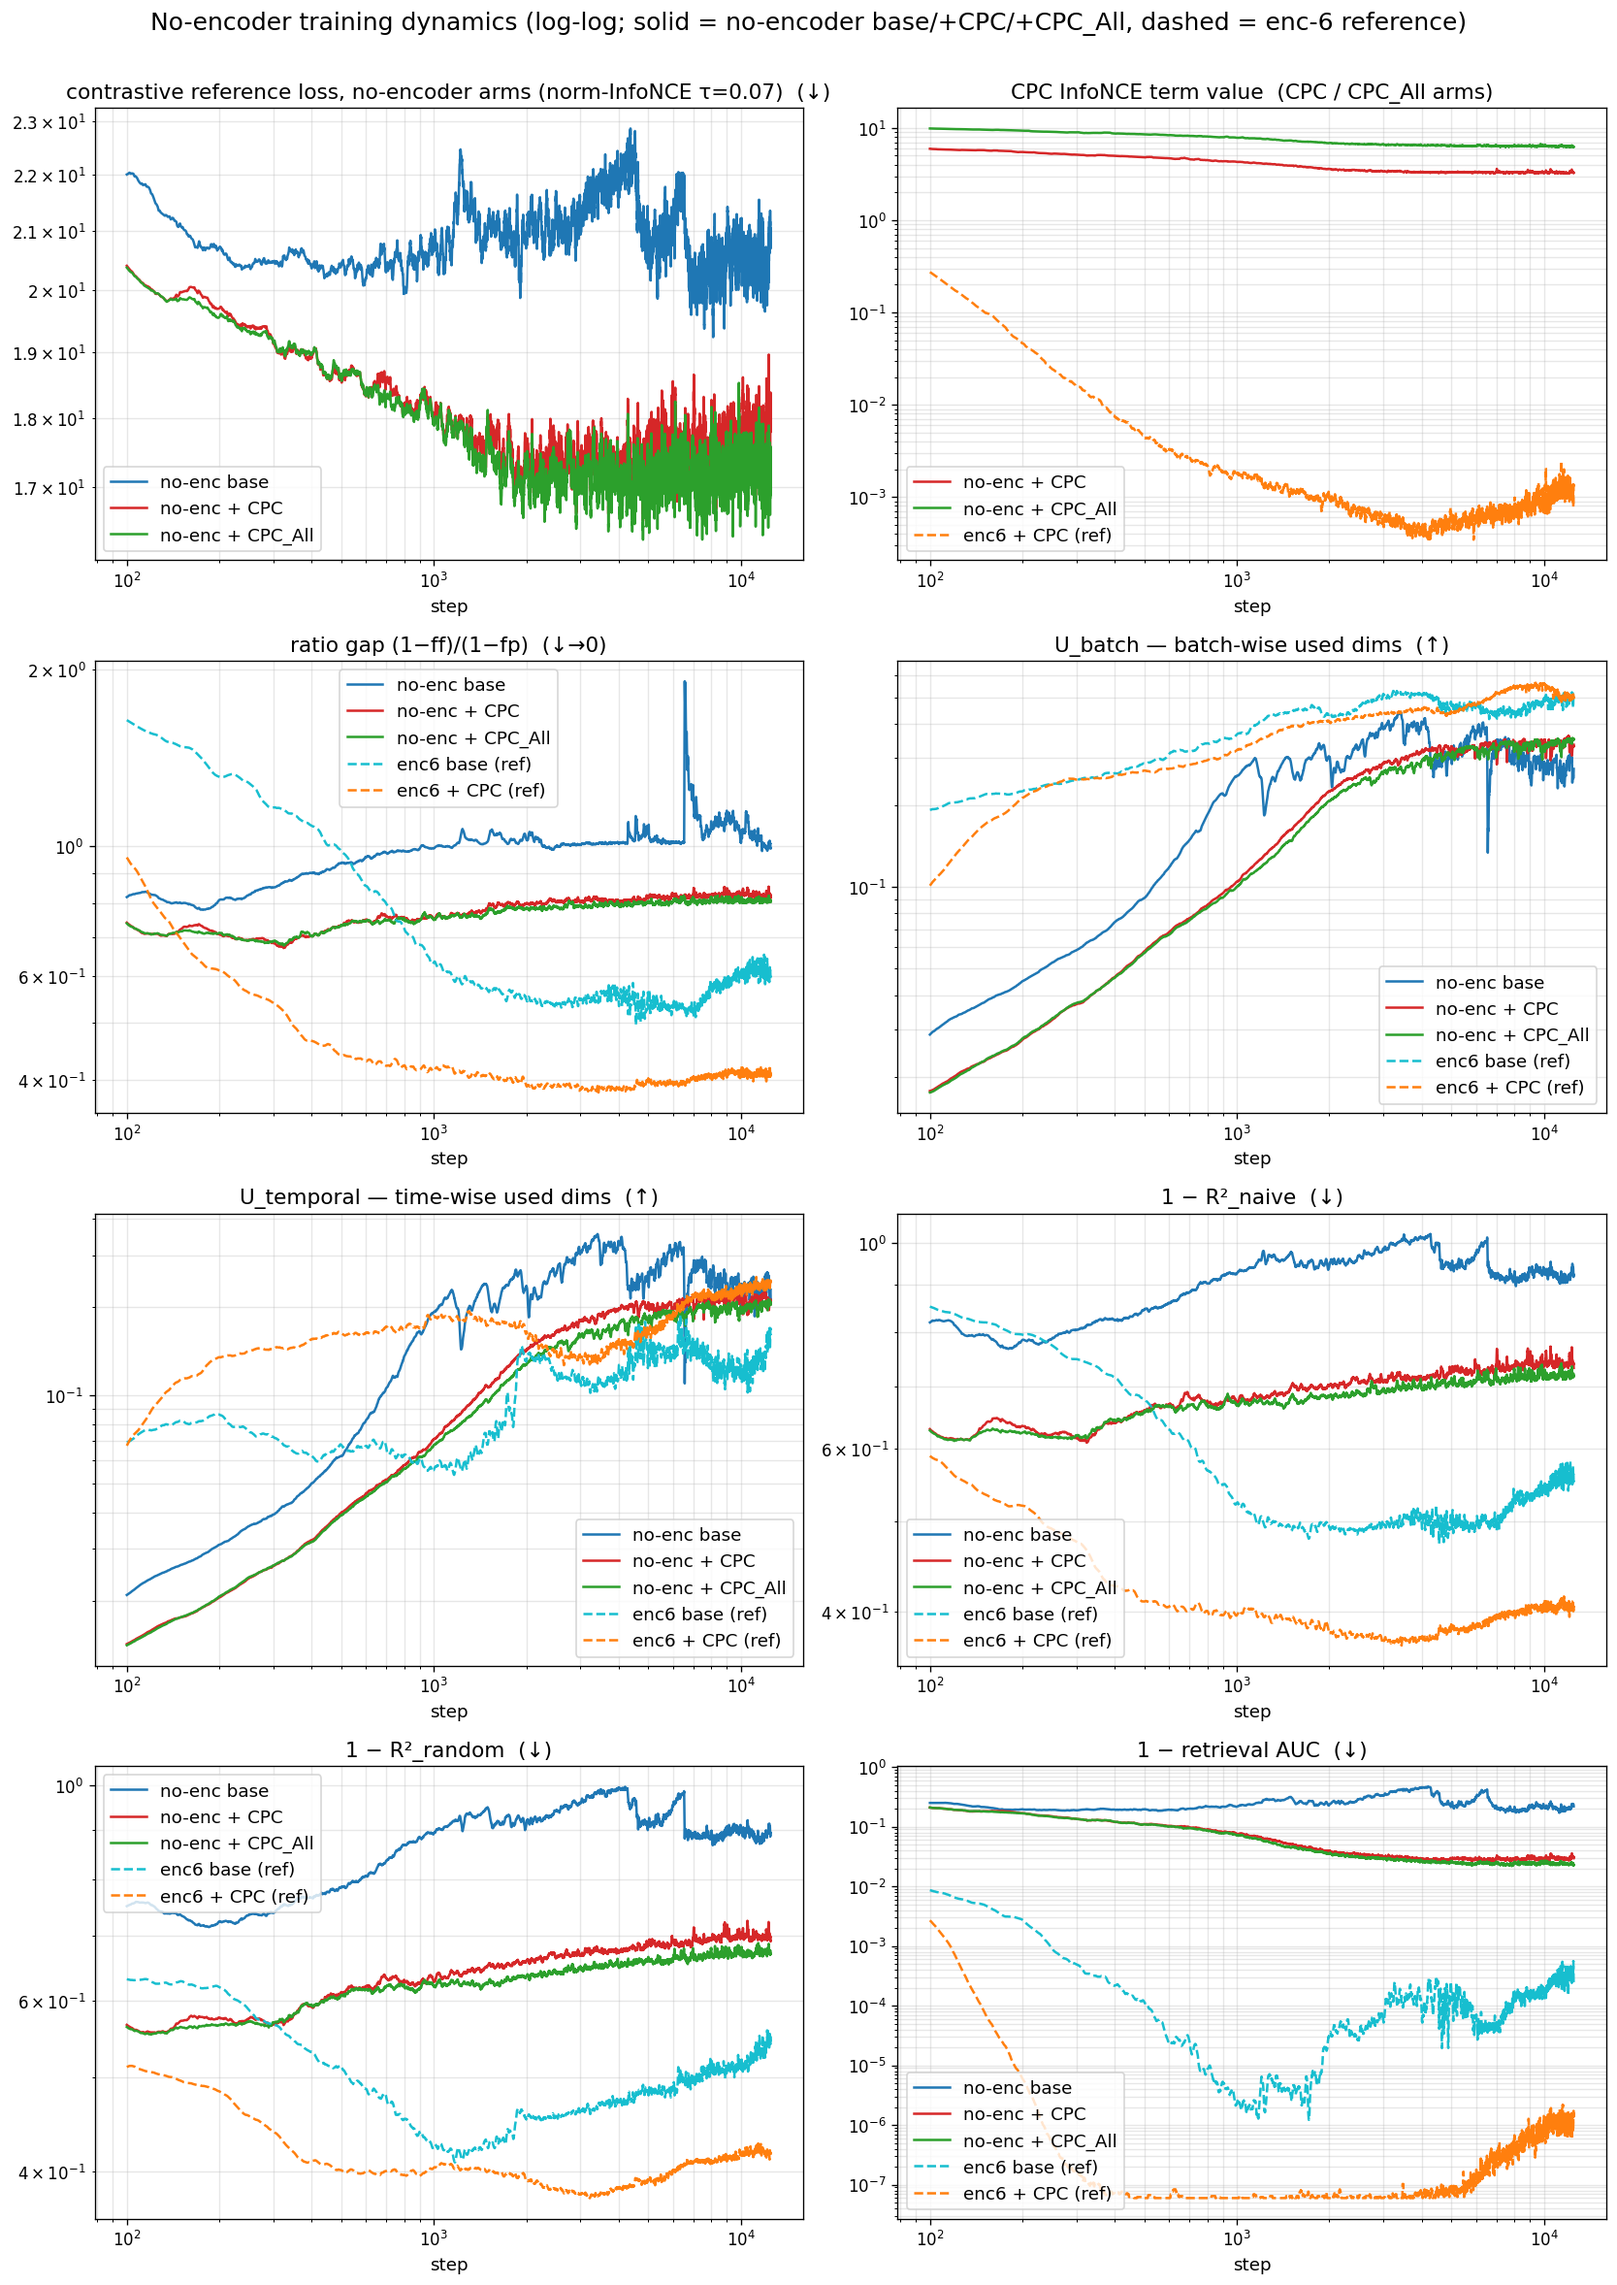
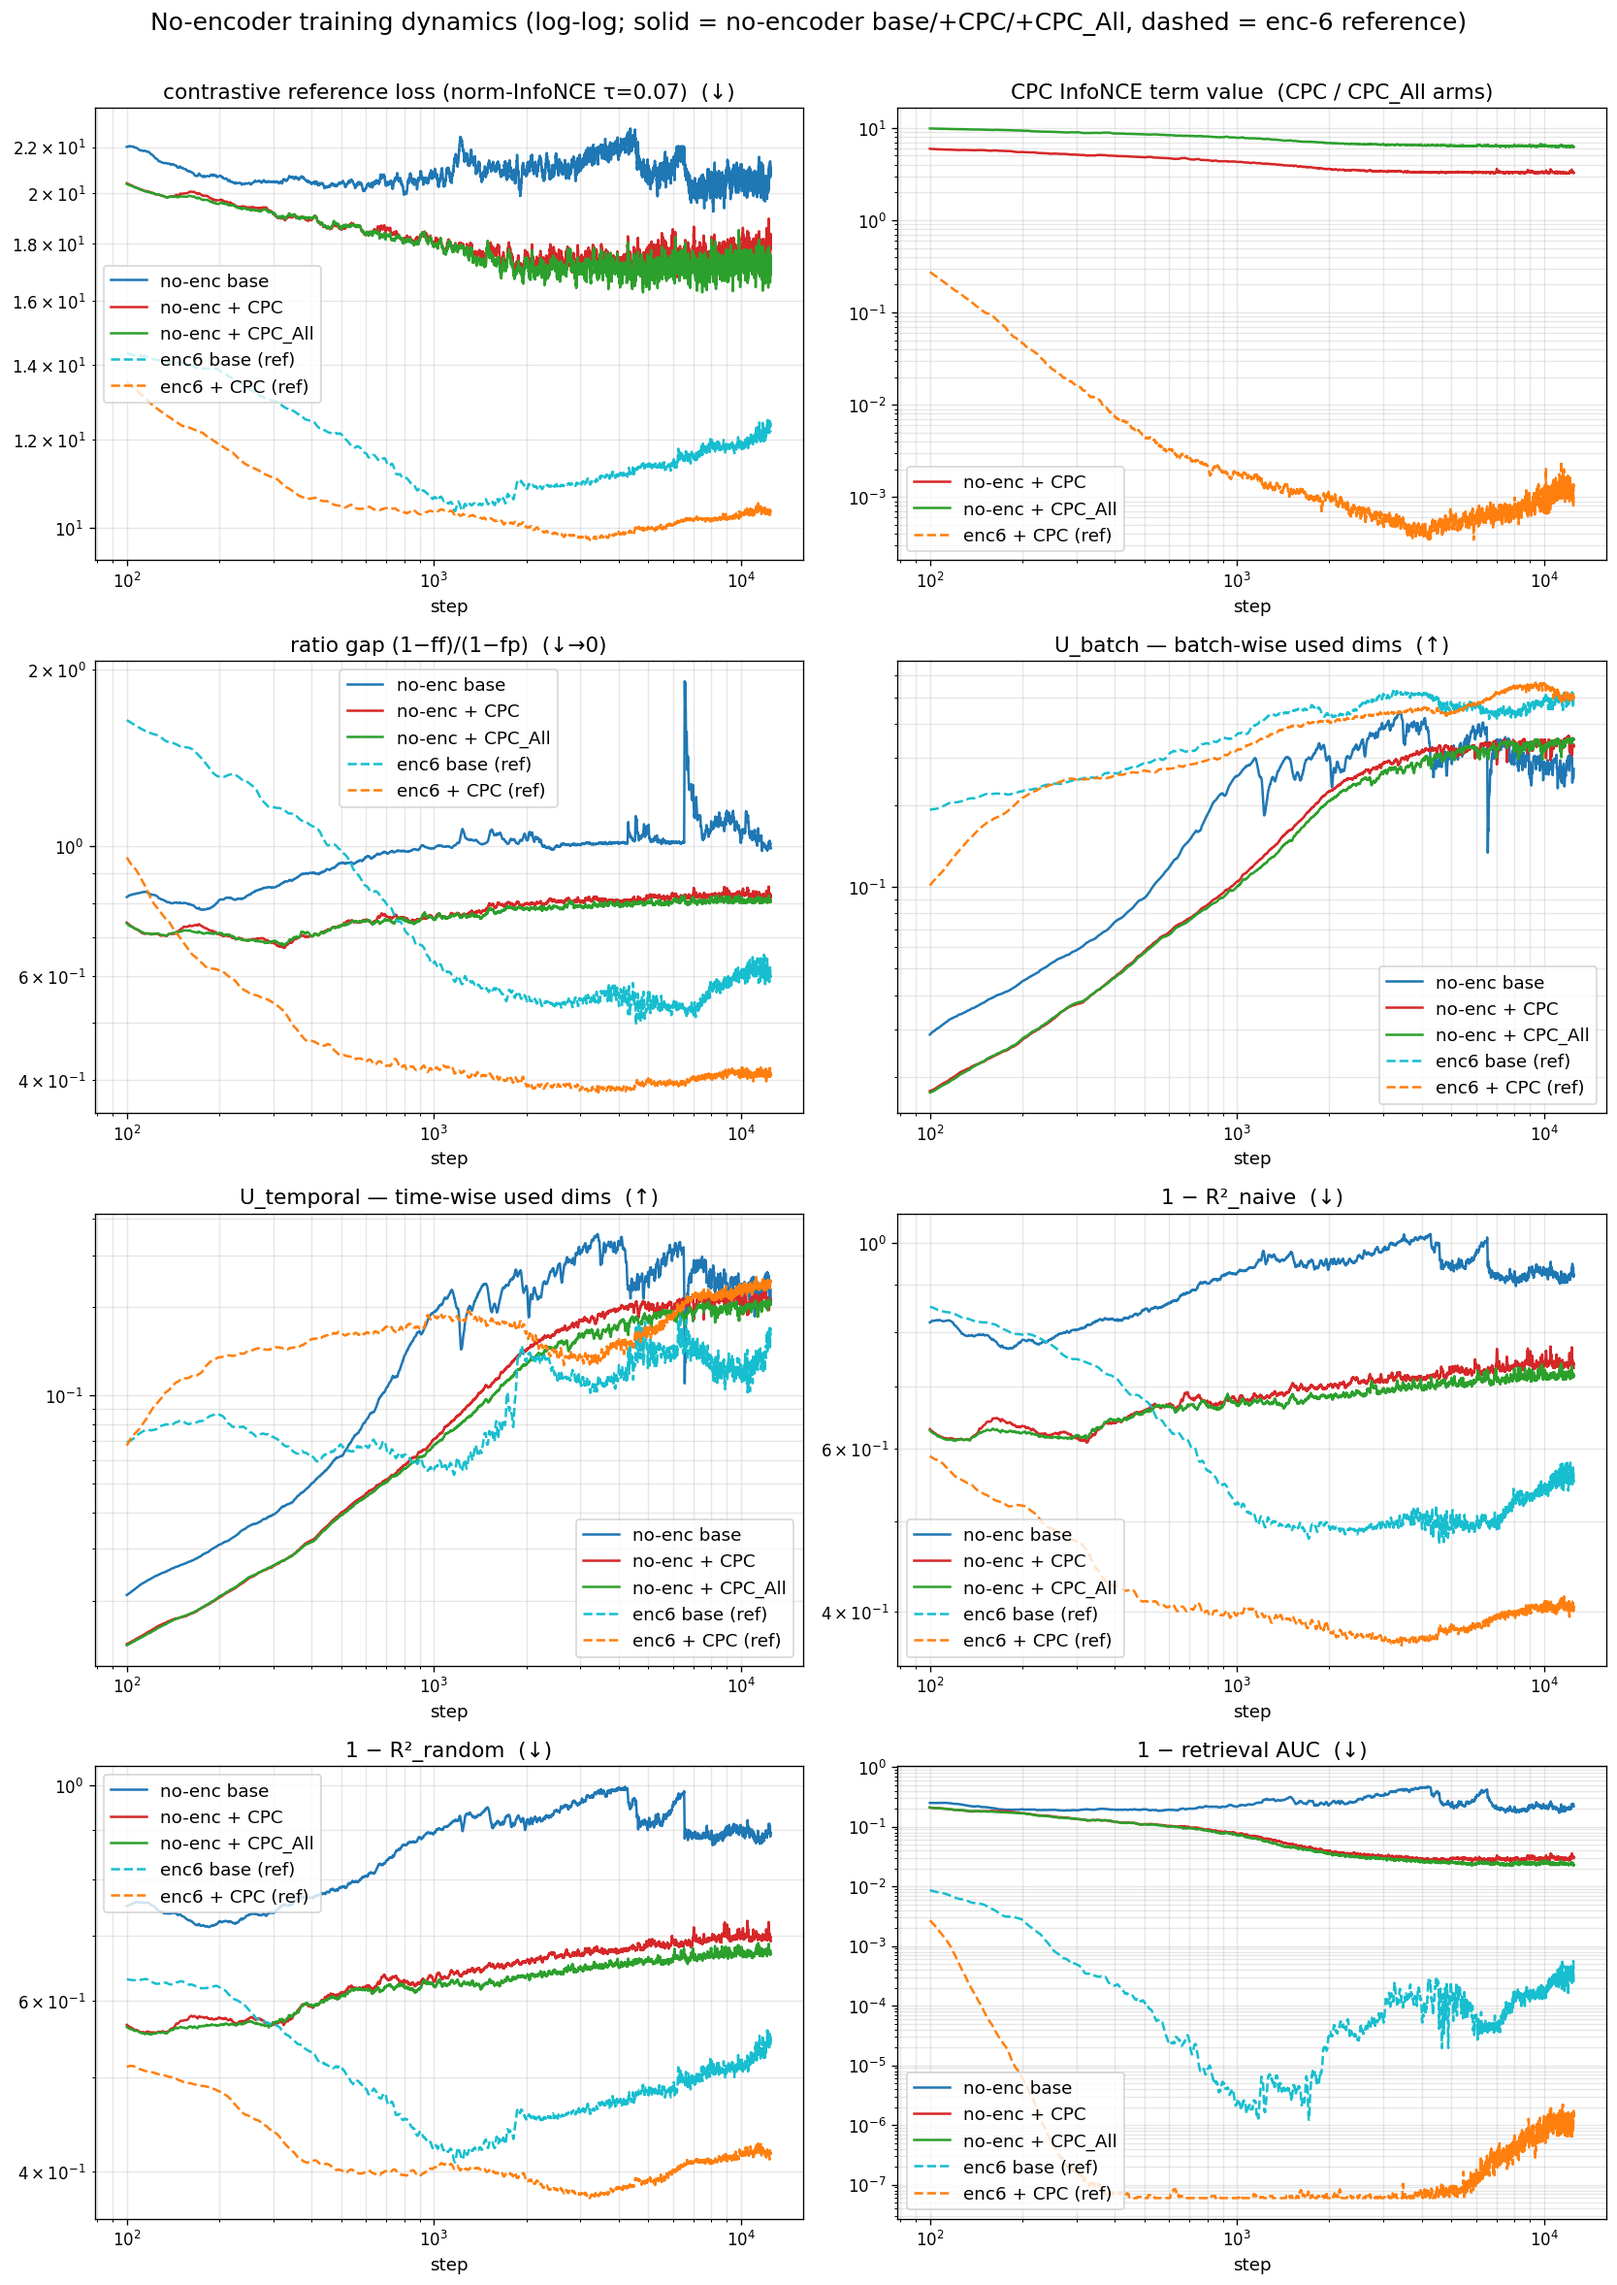
report(#348): keep enc-6 reference on the reference-loss panel (shown raw)
Revert the panel drop per maintainer feedback ('don't drop'): the enc-6 reference
is restored on the contrastive-reference-loss panel as a raw reference trajectory.
loss_tau_ref stays exactly as logged (identity transform, τ=0.07, no floor
subtracted, no rescale) — the ref-tau curve is not adjusted.

Changed region(s): [[0.0312, 0.031, 0.4991, 0.248], [0.0, 0.062, 0.0624, 0.093], [0.0, 0.155, 0.0312, 0.186]]

diff --git a/experiments/2026-06-15_no_encoder_redo/scripts/plot_training_dynamics_noenc.py b/experiments/2026-06-15_no_encoder_redo/scripts/plot_training_dynamics_noenc.py
@@ -29,7 +29,7 @@ SMOOTH = 25
 START_STEP = 100
 
 PANELS = [
-    ("loss_tau_ref", "contrastive reference loss, no-encoder arms (norm-InfoNCE τ=0.07)  (↓)", lambda v: v),
+    ("loss_tau_ref", "contrastive reference loss (norm-InfoNCE τ=0.07)  (↓)", lambda v: v),
     ("cpc_aux",      "CPC InfoNCE term value  (CPC / CPC_All arms)", lambda v: v),
     ("gap_ratio",    "ratio gap (1−ff)/(1−fp)  (↓→0)", lambda v: v),
     ("u_batch",      "U_batch — batch-wise used dims  (↑)", lambda v: v),
@@ -70,11 +70,6 @@ def main():
         ax.set_visible(False)
     for ax, (col, title, tf) in zip(axes.flat, PANELS):
         for lab, (path, c, ls) in RUNS.items():
-            # The enc-6 reference's reference-loss is logged with a different
-            # negative count → a different InfoNCE floor, so its raw curve is
-            # not on the same scale as the no-encoder arms; omit it here.
-            if col == "loss_tau_ref" and "(ref)" in lab:
-                continue
             d = load(path)
             if not d or col not in d or "step" not in d:
                 continue

diff --git a/experiments/2026-06-15_no_encoder_redo/no_encoder_redo.md b/experiments/2026-06-15_no_encoder_redo/no_encoder_redo.md
@@ -32,7 +32,7 @@ The positive sits in the denominator (normalised InfoNCE ≥ 0), summed equal-we
 
 ## Metrics
 
-Training-curve panels: **ff** and **fp** are the forecast-to-future and forecast-to-present cosines, so the ratio gap (1−ff)/(1−fp) falls toward 0 as the positive separates; **R²_naive / R²_random** measure how much of the next embedding the forecast explains, against a copy-the-present / random-embedding baseline; **U_batch / U_temporal** are the fractions of embedding dimensions that vary across the batch / across time; **retrieval AUC** ranks the positive against the negatives; the **reference loss** is a fixed τ=0.07 normalised-InfoNCE diagnostic, distinct from the τ 0.10 training objective. Its panel shows the no-encoder arms only: the InfoNCE floor (the perfect-alignment minimum, `log(1 + N·e^(−1/τ))`) depends on the negative count `N`, and the enc-6 reference was logged with a different `N`, so its raw curve is not on the same scale.
+Training-curve panels: **ff** and **fp** are the forecast-to-future and forecast-to-present cosines, so the ratio gap (1−ff)/(1−fp) falls toward 0 as the positive separates; **R²_naive / R²_random** measure how much of the next embedding the forecast explains, against a copy-the-present / random-embedding baseline; **U_batch / U_temporal** are the fractions of embedding dimensions that vary across the batch / across time; **retrieval AUC** ranks the positive against the negatives; the **reference loss** is a fixed τ=0.07 normalised-InfoNCE diagnostic, distinct from the τ 0.10 training objective.
 
 ## Paired bootstrap
 
